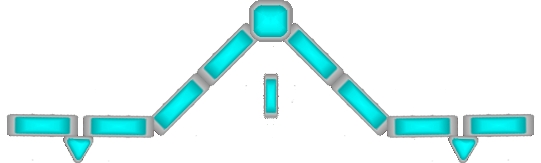
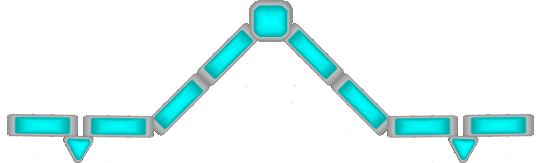
Moved bunkers and added all vertices

Changed region(s): [[0.4732, 0.4294, 0.5323, 0.7362]]

diff --git a/core/src/com/speedball/game/Bunker.java b/core/src/com/speedball/game/Bunker.java
@@ -37,16 +37,17 @@ public class Bunker
         createSquareBunkers();
         createX();
         createDeadBox();
+        createLongRectangle();
         
     }
     protected void createLargeLeftDoritos() {
     	FileHandle doritoLargeLeft = Gdx.files.internal("bunkers/doritoLargeLeft.png");
-    	float[] vertices1 = {955.687f, 354.69f, 983.81f, 341.238f, 983.81f, 369.557f};
+    	float[] vertices1 = {96.187515f, 375.22128f, 96.187515f, 349.02658f, 126.000015f, 362.4779f};
     	createBunkerSprite(doritoLargeLeft, 955.0f, 348.31863f, 32.8f, 30.4f, vertices1);
     }
     protected void createLargeRightDoritos() {
     	FileHandle doritoLargeRight = Gdx.files.internal("bunkers/doritoLargeRight.png");
-    	float[] vertices1 = {93.93f, 354.69f, 124.875f, 363.1858f, 93.93f, 377.345f};
+    	float[] vertices1 = {986.0626f, 378.05313f, 955.6876f, 363.18585f, 986.0626f, 350.4425f};
     	createBunkerSprite(doritoLargeRight, 93.93f, 348.31863f, 32.8f, 30.4f, vertices1);
     	
     }
@@ -57,90 +58,105 @@ public class Bunker
     }
     
     protected void createTopDoritos() {
-        FileHandle smallDorito = Gdx.files.internal("bunkers/doritoLarge.png");
-        float[] d1 = {296.4f, 662.85724f, 286.2f, 643.8096f, 308.4f, 643.04767f};
-        float[] d2 = {397.80005f, 666.6667f, 387.00006f, 645.33344f, 409.20004f, 643.8096f};
-        float[] d3 = {503.4001f, 665.1429f, 493.80005f, 643.8096f, 516.00006f, 644.5715f};
-        float[] d4 = {611.4f, 665.1429f, 601.2001f, 643.04767f, 622.80005f, 643.04767f};
-        float[] d5 = {703.80005f, 666.6667f, 693.60004f, 644.5715f, 714.00006f, 643.8096f};
-        float[] d6 = {774.6001f, 667.42865f, 763.80005f, 644.5715f, 785.4001f, 644.5715f};
-        createBunkerSprite(smallDorito, 286.2f, 643.8096f, 32.8f, 30.4f, d1);
-        createBunkerSprite(smallDorito, 387.00006f, 645.33344f, 32.8f, 30.4f, d2);
-        createBunkerSprite(smallDorito, 493.80005f, 643.8096f, 32.8f, 30.4f, d3);
-        createBunkerSprite(smallDorito, 601.2001f, 643.04767f, 32.8f, 30.4f, d4);
-        createBunkerSprite(smallDorito, 693.60004f, 644.5715f, 32.8f, 30.4f, d5);
-        createBunkerSprite(smallDorito, 763.80005f, 644.5715f, 32.8f, 30.4f, d6);
+        FileHandle dorito = Gdx.files.internal("bunkers/doritoLarge.png");
+        float[] d1 = {297.56253f, 663.36285f, 282.37503f, 637.87616f, 312.75003f, 637.87616f};
+        float[] d2 = {398.81256f, 663.36285f, 383.62503f, 637.87616f, 414.00006f, 637.87616f};
+        float[] d3 = {500.06256f, 663.36285f, 484.87506f, 637.87616f, 515.25006f, 637.87616f};
+        float[] d4 = {592.87506f, 663.36285f, 578.25006f, 637.87616f, 607.50006f, 637.87616f};
+        float[] d5 = {684.56256f, 663.36285f, 670.50006f, 637.87616f, 700.31256f, 637.87616f};
+        float[] d6 = {779.6251f, 663.36285f, 765.56256f, 637.87616f, 795.9376f, 637.87616f};
+        createBunkerSprite(dorito, 281.2f, 635.47516f, 32.8f, 30.4f, d1);
+        createBunkerSprite(dorito, 382.00006f, 635.47516f, 32.8f, 30.4f, d2);
+        createBunkerSprite(dorito, 483.80005f, 635.47516f, 32.8f, 30.4f, d3);
+        createBunkerSprite(dorito, 576.2001f, 635.47516f, 32.8f, 30.4f, d4);
+        createBunkerSprite(dorito, 668.60004f, 635.47516f, 32.8f, 30.4f, d5);
+        createBunkerSprite(dorito, 763.80005f, 635.47516f, 32.8f, 30.4f, d6);
     }
     
     protected void createPins() {
         FileHandle pin = Gdx.files.internal("bunkers/pin.png");
-        float[] topLeftPin = {};
-        float[] topRightPin = {};
-        float[] bottomLeftPin = {};
-        float[] bottomRightPin = {};
-        float[] attachedPin = {};
-        createBunkerSprite(pin, 243.56088f, 532.8672f, 25f, 25f, topLeftPin);
+        float[] topLeftPin = {250.3125f, 557.1682f, 242.43753f, 555.0443f, 239.62503f, 545.1328f, 243.00003f, 536.6372f,
+        		251.43753f, 533.80536f, 259.87503f, 537.34515f, 263.25003f, 545.1328f, 259.87503f, 553.62836f};
+        float[] topRightPin = {826.8751f, 557.87616f, 819.0001f, 555.0443f, 815.6251f, 544.42487f, 820.1251f, 535.92926f,
+        		826.3126f, 534.51337f, 835.8751f, 538.76117f, 839.2501f, 545.84076f, 835.3126f, 554.33636f};
+        float[] bottomLeftPin = {250.3125f, 194.69029f, 243.00003f, 191.15045f, 239.62503f, 180.53099f, 243.00003f, 173.45135f,
+        		252.00006f, 169.91151f, 258.75f, 172.74338f, 262.12503f, 181.23895f, 259.31253f, 191.15045f};
+        float[] bottomRightPin = {827.4376f, 193.98232f, 819.5626f, 192.56639f, 815.6251f, 179.82303f, 819.0001f, 173.45135f,
+        		827.4376f, 169.91151f, 834.7501f, 174.15932f, 839.8126f, 181.94691f, 834.7501f, 191.15045f};
+        float[] attachedPin = {543.37506f, 557.87616f, 536.06256f, 554.33636f, 532.68756f, 543.71686f, 536.62506f, 535.92926f,
+        		544.50006f, 533.80536f, 552.93756f, 538.05316f, 556.31256f, 545.84076f, 552.93756f, 554.33636f};
+        createBunkerSprite(pin, 239.0148f, 533.70636f, 25f, 25f, topLeftPin);
         createBunkerSprite(pin, 814.80725f, 533.70636f, 25f, 25f, topRightPin);
-        createBunkerSprite(pin, 245.16324f, 134.26573f, 25f, 25f, bottomLeftPin);
-        createBunkerSprite(pin, 818.8132f, 132.58745f, 25f, 25f, bottomRightPin);
-        createBunkerSprite(pin, 540.00006f, 533.70636f, 25f, 25f, attachedPin);
+        createBunkerSprite(pin, 239.0148f, 170.26573f, 25f, 25f, bottomLeftPin);
+        createBunkerSprite(pin, 814.80725f, 170.26573f, 25f, 25f, bottomRightPin);
+        createBunkerSprite(pin, 532.00006f, 533.70636f, 25f, 25f, attachedPin);
         
     }
     
     protected void createRectangles() {
         FileHandle rectangle = Gdx.files.internal("bunkers/rectangle.png");
-        float[] topLeftRectangle = {};
-        float[] topRightRectangle = {};
-        float[] bottomLeftRectangle = {};
-        float[] bottomRightRectangle = {};
-        float[] attachedRectangle = {};
-        createBunkerSprite(rectangle, 248.85364f, 411.96658f, 18.72f, 30.24f, topLeftRectangle);
-        createBunkerSprite(rectangle, 820.72656f, 424.7699f, 18.72f, 30.24f, topRightRectangle);
-        createBunkerSprite(rectangle, 247.0148f, 281.67368f, 18.72f, 30.24f, bottomLeftRectangle);
-        createBunkerSprite(rectangle, 818.8877f, 274.89542f, 18.72f, 30.24f, bottomRightRectangle);
-        createBunkerSprite(rectangle, 545.06256f, 550.7966f, 18.72f, 30.24f, attachedRectangle);
+        float[] topLeftRectangle = {243.56256f, 466.54874f, 243.56256f, 438.23013f, 259.31253f, 438.23013f, 259.31253f, 465.84076f};
+        float[] topRightRectangle = {820.1251f, 465.84076f, 820.1251f, 437.52216f, 835.8751f, 438.23013f, 836.4376f, 465.84076f};
+        float[] bottomLeftRectangle = {243.56256f, 292.38943f, 243.56256f, 264.07083f, 259.31253f, 264.07083f, 259.31253f, 291.68143f};
+        float[] bottomRightRectangle = {820.1251f, 291.68143f, 820.1251f, 263.36288f, 835.8751f, 264.7788f, 836.4376f, 291.68143f};
+        float[] attachedRectangle = {536.62506f, 579.1151f, 537.18756f, 557.1682f, 552.37506f, 556.46027f, 552.37506f, 579.1151f};
+        createBunkerSprite(rectangle, 242.0148f, 437.59723f, 18.72f, 30.24f, topLeftRectangle);
+        createBunkerSprite(rectangle, 818.8877f, 437.59723f, 18.72f, 30.24f, topRightRectangle);
+        createBunkerSprite(rectangle, 242.0148f, 263.25092f, 18.72f, 30.24f, bottomLeftRectangle);
+        createBunkerSprite(rectangle, 818.8877f, 263.25092f, 18.72f, 30.24f, bottomRightRectangle);
+        createBunkerSprite(rectangle, 535.06256f, 550.7966f, 18.72f, 30.24f, attachedRectangle);
     }
     
     protected void createSnake() {
         FileHandle snake = Gdx.files.internal("bunkers/snake.png");
-        float[] vertices = {};
+        float[] vertices = {354.93753f, 102.65489f, 354.37503f, 89.20353f, 394.87506f, 86.37168f, 404.43756f, 69.38053f,
+        		415.12506f, 85.663704f, 460.12506f, 88.49558f, 529.31256f, 155.04427f, 548.43756f, 155.04427f, 616.50006f, 87.787605f,
+        		662.62506f, 86.37168f, 674.43756f, 69.38053f, 686.25006f, 87.07966f, 722.25006f, 88.49558f, 722.25006f, 102.65489f,
+        		623.25006f, 102.65489f, 555.75006f, 168.49559f, 552.93756f, 181.23895f, 527.06256f, 181.94691f, 522.00006f, 167.07967f,
+        		455.06256f, 103.36284f};
         createBunkerSprite(snake, 350.00006f, 70.00001f, 378.7f, 114.1f, vertices);
         
     }
     
     protected void createSquareBunkers() {
         FileHandle squareBunker = Gdx.files.internal("bunkers/squareBunker.png");
-        float[] topLeftVertices = {118.435104f, 660.9977f, 119.0753f, 637.9098f, 137.6408f, 637.9098f, 137.6408f, 660.14264f};
-        float[] topRightVertices = {912.91064f, 661.8528f, 913.5508f, 640.47516f, 934.03687f, 638.76495f, 934.67706f, 663.563f};       
-        float[] bottomLeftVertices = {122.95387f, 72.93287f, 120.96001f, 50.035347f, 143.55693f, 50.8834f, 143.55693f, 72.93287f};       
-        float[] bottomRightVertices = {922.4863f, 76.32511f, 922.4863f, 52.579506f, 943.754f, 54.27561f, 943.754f, 76.32511f};
-        float[] midTopLeftVertices = {444.62778f, 461.3428f, 443.96313f, 439.29333f, 465.23083f, 438.44528f, 465.23083f, 460.49475f};        
-        float[] midTopRightVertices = {616.7631f, 460.49475f, 616.0985f, 437.59723f, 638.69543f, 436.74918f, 638.69543f, 460.49475f};        
-        float[] midBottomLeftVertices = {443.96313f, 306.14844f, 445.95697f, 283.25092f, 467.88928f, 283.25092f, 465.89545f, 306.9965f};
-        float[] midBottomRightVertices = {622.08f, 307.84457f, 620.75085f, 285.79507f, 646.00616f, 284.94705f, 644.0124f, 306.9965f};  
-        createBunkerSprite(squareBunker, 119.0753f, 637.9098f, 28.16f, 27.52f, topLeftVertices);
+        float[] topLeftVertices = {119.812515f, 665.4868f, 121.500015f, 642.12396f, 145.68752f, 642.8319f, 144.56248f, 665.4868f};
+        float[] topRightVertices = {914.6251f, 666.9027f, 915.7501f, 642.12396f, 940.5001f, 642.12396f, 939.9376f, 666.19476f};       
+        float[] bottomLeftVertices = {122.062515f, 76.46018f, 122.062515f, 51.681404f, 147.37502f, 51.681404f, 147.37502f, 75.04426f};       
+        float[] bottomRightVertices = {924.1876f, 75.752235f, 924.7501f, 51.681404f, 948.9376f, 51.681404f, 947.8126f, 75.04426f,};
+        float[] midTopLeftVertices = {435.37506f, 461.593f, 435.93756f, 440.354f, 459.00006f, 439.6461f, 457.87506f, 463.0089f};        
+        float[] midTopRightVertices = {622.68756f, 461.593f, 622.12506f, 439.6461f, 646.87506f, 439.6461f, 647.43756f, 462.30093f};        
+        float[] midBottomLeftVertices = {435.37506f, 288.14163f, 436.50006f, 266.19473f, 459.00006f, 266.19473f, 459.56256f, 287.43365f};
+        float[] midBottomRightVertices = {622.68756f, 288.14163f, 622.12506f, 265.48676f, 646.87506f, 266.19473f, 646.87506f, 288.14163f};  
+        createBunkerSprite(squareBunker, 119.0753f, 640.47516f, 28.16f, 27.52f, topLeftVertices);
         createBunkerSprite(squareBunker, 913.5508f, 640.47516f, 28.16f, 27.52f, topRightVertices);
         createBunkerSprite(squareBunker, 120.96001f, 50.035347f,28.16f, 27.52f, bottomLeftVertices);      
-        createBunkerSprite(squareBunker, 922.4863f, 52.579506f, 28.16f, 27.52f, bottomRightVertices);   
-        createBunkerSprite(squareBunker, 443.96313f, 439.29333f, 28.16f, 27.52f, midTopLeftVertices);        
-        createBunkerSprite(squareBunker, 616.0985f, 437.59723f, 28.16f, 27.52f, midTopRightVertices);
-        createBunkerSprite(squareBunker, 445.95697f, 283.25092f, 28.16f, 27.52f, midBottomLeftVertices);        
-        createBunkerSprite(squareBunker, 620.75085f, 285.79507f, 28.16f, 27.52f, midBottomRightVertices);     
+        createBunkerSprite(squareBunker, 922.4863f, 50.035347f, 28.16f, 27.52f, bottomRightVertices);   
+        createBunkerSprite(squareBunker, 433.96313f, 437.59723f, 28.16f, 27.52f, midTopLeftVertices);        
+        createBunkerSprite(squareBunker, 621.0985f, 437.59723f, 28.16f, 27.52f, midTopRightVertices);
+        createBunkerSprite(squareBunker, 433.96313f, 263.25092f, 28.16f, 27.52f, midBottomLeftVertices);        
+        createBunkerSprite(squareBunker, 621.0985f, 263.25092f, 28.16f, 27.52f, midBottomRightVertices);     
     }
     
     protected void createX() {
         FileHandle x = Gdx.files.internal("bunkers/x.png");
-        float[] vertices = {533.30334f, 400.41583f, 522.34503f, 386.94394f, 536.3473f, 367.48444f, 522.34503f, 347.27652f, 533.30334f,
-            333.05618f, 551.56714f, 348.7734f, 566.787f, 332.3077f, 578.35406f, 348.02496f, 564.96063f, 365.98755f, 580.1805f, 386.1955f,
-            566.787f, 399.6674f, 550.34955f, 384.6986f};
-        createBunkerSprite(x, 520.5187f, 329.31393f, 67.84f, 67.84f, vertices);
+        float[] vertices = {520.31256f, 395.7523f, 505.68756f, 381.593f, 523.12506f, 363.18585f, 506.81256f, 344.7788f,
+        		521.43756f, 330.6195f, 539.43756f, 346.19473f, 556.87506f, 329.20358f, 573.18756f, 344.7788f, 556.31256f, 361.76996f,
+        		572.62506f, 380.885f, 558.00006f, 395.7523f, 540.00006f, 379.46906f};
+        createBunkerSprite(x, 505.5187f, 329.31393f, 67.84f, 67.84f, vertices);
+    }
+    protected void createLongRectangle() {
+    	FileHandle longRectangle = Gdx.files.internal("bunkers/longRectangle.png");
+    	float[] vertices = {532.12506f, 109.73453f, 532.68756f, 70.08851f, 546.18756f, 70.796455f, 545.62506f, 109.02658f};
+    	createBunkerSprite(longRectangle, 532.37506f, 70.08851f, 14f, 42f, vertices);
+    	
     }
     protected void createDeadBox() {
     	FileHandle deadBox = Gdx.files.internal("misc/deadbox.png");
-    	float[] vertices1 = {19.125f, 313.628f, 46.687f, 313.628f, 46.687f, 405.664f, 19.125f, 405.664f};
-        float[] vertices2 = {1031.625f, 313.628f, 1059.188f, 313.628f, 1059.188f, 405.664f, 1031.625f, 405.664f};
-        createBunkerSprite(deadBox, 19.125f, 303.628f, 40f, 112f, vertices1);
-        createBunkerSprite(deadBox, 1020.625f, 303.628f, 40f, 112f, vertices2);
+    	float[] leftDeadBox = {19.125002f, 415.57532f, 19.125002f, 304.4248f, 57.93754f, 305.13278f, 58.500008f, 414.86734f};
+        float[] rightDeadBox = {1020.3751f, 414.86734f, 1021.5001f, 304.4248f, 1059.7501f, 305.13278f, 1059.7501f, 414.15936f};
+        createBunkerSprite(deadBox, 19.125f, 303.628f, 40f, 112f, leftDeadBox);
+        createBunkerSprite(deadBox, 1020.625f, 303.628f, 40f, 112f, rightDeadBox);
     }
     protected ArrayList<BunkerSprite> getCollidableBunkers(){
         return this.collidableBunkers;

diff --git a/core/src/com/speedball/game/SpeedBall.java b/core/src/com/speedball/game/SpeedBall.java
@@ -161,7 +161,7 @@ public class SpeedBall extends ApplicationAdapter {
             paintballs.add(gunUtils.createPaintballSprite(gunX, gunY, slope, quadrant));
             System.out.println("ANGLE: " + angle + " SLOPE: " + slope + " realgunX: " + coords[0] + " realgunY: " + coords[1] + 
                 " fakeGunX: "+ gunX + " fakeGunY: " + gunY + " playerX: " + playerX + " playerY:" + playerY + " Quadrant: " + quadrant +
-                " MouseXY: (" + Gdx.input.getX() + ", " + Gdx.input.getY() + ")" + "MappedMouseXY: (" + tmpCoords.x + ", " + tmpCoords.y + ")" );
+                " MouseXY: (" + Gdx.input.getX() + ", " + Gdx.input.getY() + ")" + "MappedMouseXY: (" + tmpCoords.x + "f, " + tmpCoords.y + "f,)" );
             paintballCounter++;
             return true;
         }
